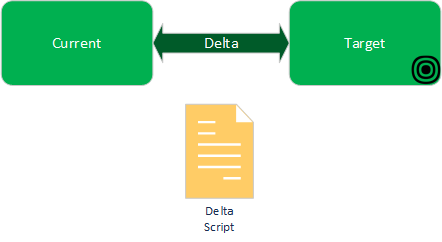
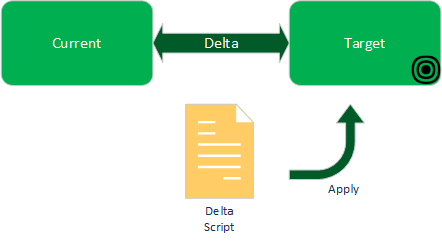
document

Changed region(s): [[0.6471, 0.4339, 0.8235, 0.8099]]

diff --git a/README.md b/README.md
@@ -5,7 +5,7 @@
 Command-line interface (CLI) enabling CI / CD automation with Kusto objects (e.g. tables, functions, policies, security roles, etc.)
 in [Azure Data Explorer](https://docs.microsoft.com/en-us/azure/data-explorer/data-explorer-overview) (ADX) databases.
 
-delta-kusto aims at doing what [SQL Database projects](https://docs.microsoft.com/en-us/sql/ssdt/project-oriented-offline-database-development?view=sql-server-ver15) do for Microsoft SQL:  enabling CI/CD, change management and source control of Kusto databases.
+delta-kusto aims at doing what [SQL Database projects](https://docs.microsoft.com/en-us/sql/ssdt/project-oriented-offline-database-development) do for Microsoft SQL:  enabling CI/CD, change management and source control of Kusto databases.
 
 ## Overview
 
@@ -18,13 +18,24 @@ The green boxes represent [sources](documentation/sources.md).  A source can be:
 * ADX Database
 * Kusto scripts (either a kusto script file or a hierarchy of folders containing kusto scripts)
 
-delta-script computes the *delta* between the two sources.  The *delta* can be represented as a Kusto script containing the kusto commands required to run on the *current source* so it would be identical to *target source*.
+delta-script computes the *delta* between the two sources.  The *delta* can be represented as a Kusto script containing the kusto commands required to run on the *current source* so it would be identical to *target source*.  For instance the delta 
 
 This *delta script* can either be applied directly to an ADX Database or saved as a Kusto script for human validation.
 
 Using different combinations of sources can enable different scenarios.
 
-### Kusto scripts (current) to ADX Database (target)
 ### ADX Database (current) to Kusto scripts (target)
+
+Typical CI / CD
+
+### Kusto scripts (current) to ADX Database (target)
+
+Siphon out a Kusto DB content.
+
 ### Kusto scripts (current) to Kusto scripts (target)
+
+Offline sync.
+
 ### ADX Database (current) to ADX Database (target)
+
+Live Sync.
